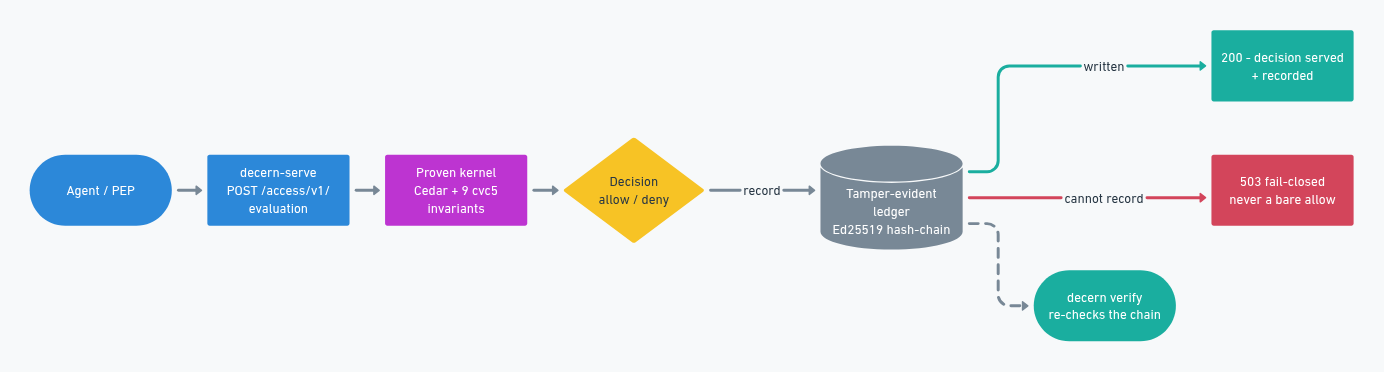
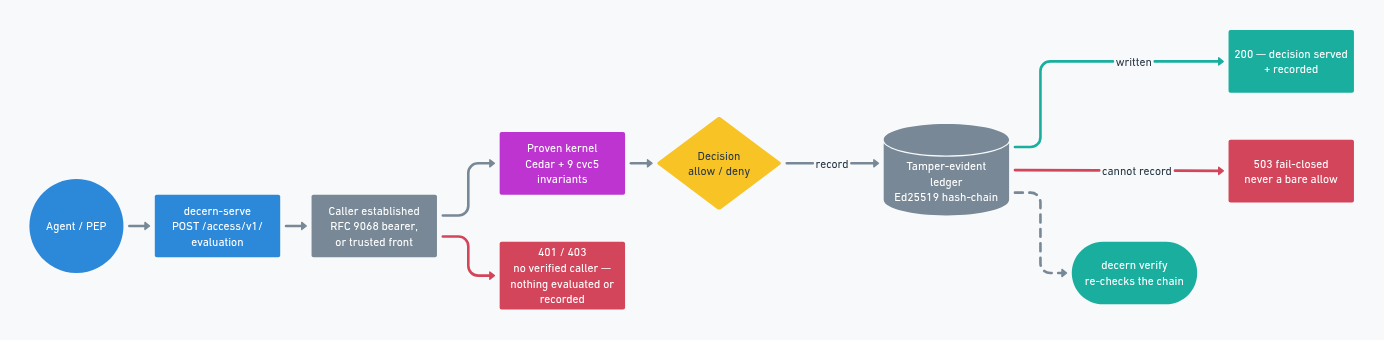
docs: the decision-flow diagram shows the caller gate
The flow drew a request meeting the kernel directly, which stopped being the whole
story when the caller had to be established first: a request without a verified token
or a declared front is refused before anything is evaluated or recorded, and the
diagram now says so. The site's step list and both alt texts follow, and the README
gets the flow figure back.

Changed region(s): [[0.0, 0.3529, 0.9942, 0.9118], [0.7146, 0.7059, 0.8699, 0.9412], [0.7146, 0.0588, 0.9942, 0.2941]]

diff --git a/docs/index.html b/docs/index.html
@@ -428,7 +428,7 @@
           <div style="padding:24px 20px;border-right:1px solid #0C0F0E;background:#FFFFFF">
             <p style="font:400 11px/1 'IBM Plex Mono',monospace;letter-spacing:0.1em;color:#849490;margin:0">01</p>
             <p style="font:600 15px/1.32 'IBM Plex Sans',sans-serif;color:#0C0F0E;margin:14px 0 0">Ask</p>
-            <p style="font:400 13px/1.55 'IBM Plex Sans',sans-serif;color:#5E6B67;margin:8px 0 0">A request arrives at <span style="font-family:'IBM Plex Mono',monospace;font-size:12px">decern-serve</span>.</p>
+            <p style="font:400 13px/1.55 'IBM Plex Sans',sans-serif;color:#5E6B67;margin:8px 0 0">A request arrives at <span style="font-family:'IBM Plex Mono',monospace;font-size:12px">decern-serve</span>, and the caller is established first — a verified token, or the declared front.</p>
           </div>
           <div style="padding:24px 20px;border-right:1px solid #0C0F0E;background:#FFFFFF">
             <p style="font:400 11px/1 'IBM Plex Mono',monospace;letter-spacing:0.1em;color:#849490;margin:0">02</p>
@@ -455,7 +455,7 @@
         <div style="display:grid;grid-template-columns:minmax(0,1fr) 296px;gap:44px;margin-top:28px;align-items:start">
           
             <figure style="margin:0;border:1px solid #0C0F0E;background:#FFFFFF;padding:24px">
-              <img src="img/decision-flow.png" alt="decern decision flow: a request is evaluated by the proven kernel, recorded to the tamper-evident ledger, and served with 200 only when the record was written, else 503" style="display:block;width:100%;height:auto">
+              <img src="img/decision-flow.png" alt="decern decision flow: the caller is established, the proven kernel evaluates, the decision is recorded to the tamper-evident ledger, and it is served with 200 only when the record was written, else 503; an unestablished caller is refused before evaluation" style="display:block;width:100%;height:auto">
             </figure>
           
           <div>

diff --git a/README.md b/README.md
@@ -92,7 +92,9 @@ than the machine verified:
 
 Every decision lands in an append-only, Ed25519-signed, hash-chained ledger, and is served
 **only if its record was written** — an unrecordable decision returns 503, never a bare
-allow. A crash-torn tail heals; truncating committed history is detected. Here an
+allow. A crash-torn tail heals; truncating committed history is detected.
+
+<p align="center"><img src="docs/img/decision-flow.png" alt="decern decision flow: the caller is established, the proven kernel evaluates, the decision is recorded to the tamper-evident ledger, and it is served with 200 only when the record was written, else 503; an unestablished caller is refused before evaluation" width="900"></p> Here an
 unrecognized caller is refused a `MoveMoney`; `prev` is the chain link:
 
 ```json
